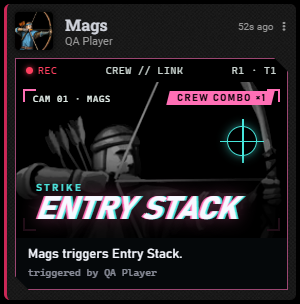
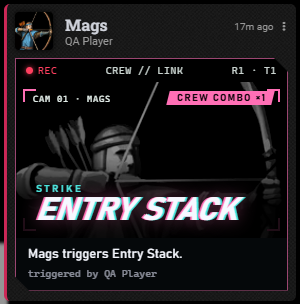
CREW card: drop the cam crosshair
The reticle on the Combo cam card read as noise, so the card loses it:
markup, styles, the lock-on keyframes and the docs alt text. A test
keeps it out, and the docs screenshots are recaptured from Foundry.

diff --git a/styles/crew.css b/styles/crew.css
@@ -175,8 +175,8 @@
 /* ---- CREW card ----
    Two styles (world setting "CREW card style"), drawn from the message's data on every render:
    - Combo cam (default): the crew's helmet-cam feeds (one pane, or two staggered side by side when a crewmate fired
-     someone else's maneuver), a reticle, REC, the CREW COMBO counter and the maneuver's name in big split-neon italic.
-     Arriving, the panes cut in one after the other, the cameras settle, the reticle locks and the name punches in.
+     someone else's maneuver), REC, the CREW COMBO counter and the maneuver's name in big split-neon italic.
+     Arriving, the panes cut in one after the other, the cameras settle and the name punches in.
    - Glitch feed: a compact kill-feed line (who >> the move) with hazard tape, a split-colour name over a light slash,
      and an EXECUTED stamp.
    The entrance plays once, when the card has just been posted, and never with reduced motion. */
@@ -264,21 +264,6 @@
   letter-spacing: 0.08em;
   text-transform: uppercase;
 }
-.hwcc-reticle {
-  position: absolute;
-  top: 44px;
-  right: 30px;
-  z-index: 1;
-  width: 30px;
-  height: 30px;
-  border: 1.5px solid var(--cc-2);
-  border-radius: 50%;
-  box-shadow: 0 0 10px color-mix(in srgb, var(--cc-2) 60%, transparent);
-}
-.is-duo .hwcc-reticle { top: 66px; right: calc(25% - 15px); }
-.hwcc-reticle::before, .hwcc-reticle::after { content: ""; position: absolute; background: var(--cc-2); }
-.hwcc-reticle::before { top: 50%; left: -8px; right: -8px; height: 1.5px; }
-.hwcc-reticle::after { left: 50%; top: -8px; bottom: -8px; width: 1.5px; }
 .hwcc-badge {
   position: absolute;
   top: 9px;
@@ -329,13 +314,12 @@
 .hwcc-foot { padding: 3px 12px 9px; color: var(--cc-dim); font: 10px/1.4 var(--hw-font-mono); }
 
 /* Combo cam entrance: static, the panes cut in one after the other (a CRT switching on), the cameras settle into focus,
-   the reticle locks, the name punches in, the scan line rolls and REC blinks a few times. */
+   the name punches in, the scan line rolls and REC blinks a few times. */
 .is-cam.is-fresh .hwcc-feeds { animation: hwcc-static 0.3s steps(3) both; }
 .is-cam.is-fresh .hwcc-feed { animation: hwcc-cut-in 0.32s cubic-bezier(0.2, 0.8, 0.2, 1) both; }
 .is-cam.is-fresh .hwcc-feed:nth-child(2) { animation-delay: 0.16s; }
 .is-cam.is-fresh .hwcc-feed > img { animation: hwcc-settle 1.1s 0.1s cubic-bezier(0.15, 0.85, 0.3, 1) both; }
 .is-cam.is-fresh .hwcc-feed:nth-child(2) > img { animation-delay: 0.26s; }
-.is-cam.is-fresh .hwcc-reticle { animation: hwcc-lock 0.7s 0.45s cubic-bezier(0.2, 0.9, 0.3, 1.2) both; }
 .is-cam.is-fresh .hwcc-title { animation: hwcc-punch 0.3s 0.75s cubic-bezier(0.2, 0.9, 0.3, 1.4) both; }
 .is-cam.is-fresh .hwcc-type { animation: hwcc-fade 0.2s 0.7s both; }
 .is-cam.is-fresh .hwcc-badge { animation: hwcc-pop 0.25s 0.95s cubic-bezier(0.2, 0.9, 0.3, 1.5) both; }
@@ -346,9 +330,6 @@
 @keyframes hwcc-settle { 0% { transform: scale(1.16) translate(2%, -2%); filter: grayscale(1) contrast(1.25) brightness(0.55) blur(2px); }
   70% { transform: scale(0.99) translate(-0.4%, 0.3%); filter: grayscale(1) contrast(1.25) brightness(0.6) blur(0); }
   100% { transform: none; filter: grayscale(1) contrast(1.25) brightness(0.55); } }
-@keyframes hwcc-lock { 0% { opacity: 0; transform: scale(2.2) rotate(60deg); }
-  70% { opacity: 1; transform: scale(0.9) rotate(0); box-shadow: 0 0 0 4px color-mix(in srgb, var(--cc-2) 50%, transparent); }
-  100% { transform: none; } }
 @keyframes hwcc-punch { from { opacity: 0; transform: skewX(-6deg) scale(1.4); } to { opacity: 1; transform: skewX(-6deg) scale(1); } }
 @keyframes hwcc-fade { from { opacity: 0; } to { opacity: 1; } }
 @keyframes hwcc-pop { 0% { opacity: 0; transform: skewX(-14deg) scale(0.4); } 100% { opacity: 1; transform: skewX(-14deg) scale(1); } }

diff --git a/scripts/hardwipe-crew.js b/scripts/hardwipe-crew.js
@@ -566,7 +566,7 @@ function cardText(data) {
 /**
  * The CREW card in a style, from its words (plain text, escaped here).
  * - Combo cam: the crew's helmet-cam feeds (one, or two staggered side by side when a crewmate fired someone else's
- *   maneuver), a reticle, REC, the CREW COMBO counter and the name in big split-neon italic.
+ *   maneuver), REC, the CREW COMBO counter and the name in big split-neon italic.
  * - Glitch feed: a compact kill-feed line, who >> the move, with hazard tape and an EXECUTED stamp.
  */
 export function crewCardMarkup(style, data) {
@@ -590,7 +590,6 @@ export function crewCardMarkup(style, data) {
     <div class="hwcc-hud"><span class="hwcc-rec">rec</span><span>${e(data.link)}</span><span>${e(data.clock)}</span></div>
     <div class="hwcc-feeds">${feeds}
       <span class="hwcc-scan" aria-hidden="true"></span>
-      <span class="hwcc-reticle" aria-hidden="true"></span>
       <span class="hwcc-badge"><span>${e(data.combo)}</span></span>
       <div class="hwcc-caption"><div class="hwcc-type">${e(data.type)}</div><div class="hwcc-title">${e(data.maneuver)}</div></div>
     </div>

diff --git a/docs/Players.md b/docs/Players.md
@@ -72,7 +72,7 @@ Nothing watches the table: the crew says when it happens, and the firer presses 
 
 | Combo cam (the usual card) | When a crewmate fires it |
 | --- | --- |
-| <img src="media/crew-card-cam.png" alt="CREW card, Combo cam: REC, crew link, R1 · T1, Mags's camera feed with a reticle, Crew combo ×1, Strike, Entry Stack in large italic, Mags triggers Entry Stack" width="250"> | <img src="media/crew-card-cam-duo.png" alt="CREW card, Combo cam: two staggered camera feeds, CAM 01 · Juno and CAM 02 · Mags, Crew combo ×2, Overwatch, Spotter Mark" width="250"> |
+| <img src="media/crew-card-cam.png" alt="CREW card, Combo cam: REC, crew link, R1 · T1, Mags's camera feed, Crew combo ×1, Strike, Entry Stack in large italic, Mags triggers Entry Stack" width="250"> | <img src="media/crew-card-cam-duo.png" alt="CREW card, Combo cam: two staggered camera feeds, CAM 01 · Juno and CAM 02 · Mags, Crew combo ×2, Overwatch, Spotter Mark" width="250"> |
 
 The GM can switch the card to the compact **Glitch feed** instead.
 
